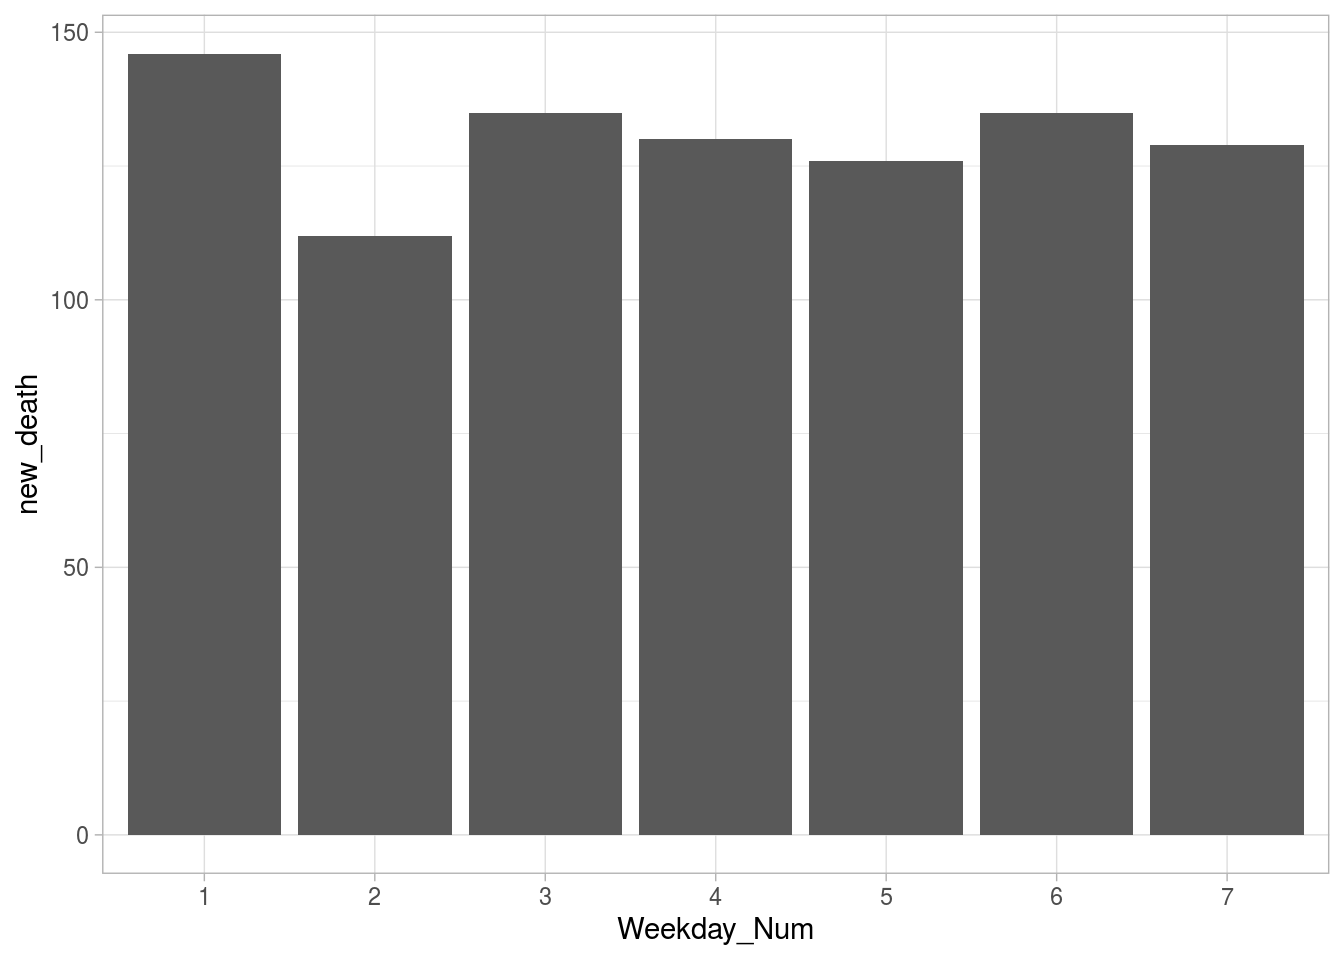
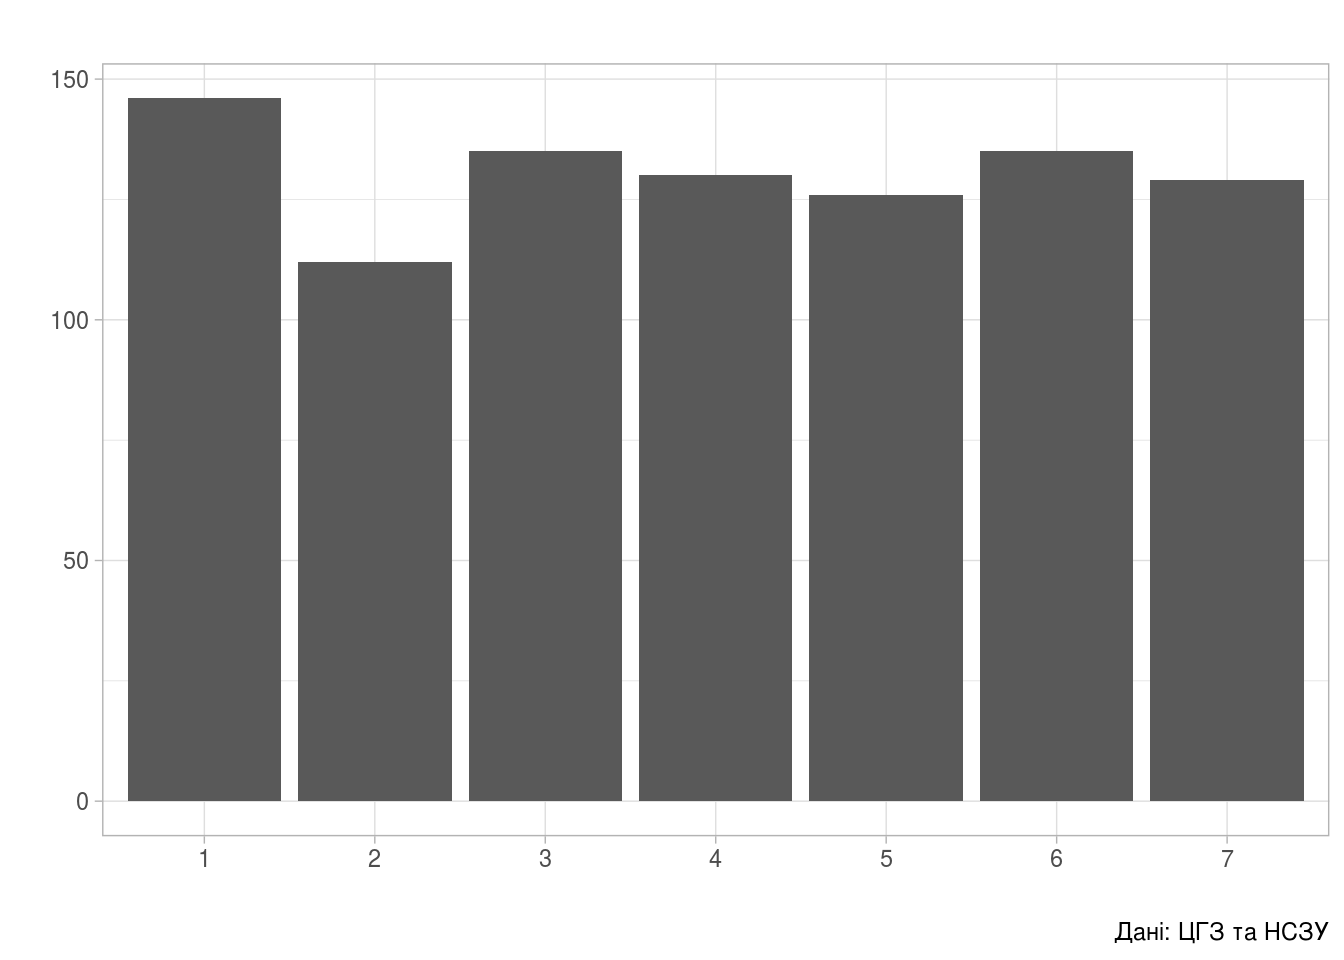
Оновлено та додано нові стовпчикові діаграми

diff --git a/docs/histograms.md b/docs/histograms.md
@@ -6,36 +6,13 @@
 Дні, коли найбільше та найменше реєструють
 ------------------------------------------
 
+Насправді це не зовсім гістограми, а швидше стовпчикові діаграми.
+
 ``` r
 library(tidyverse)
-Sys.setlocale(category="LC_ALL",locale="uk_UA.utf8" )
-```
 
-``` r
 area_dyn <- read_csv('../covid19_by_area_type_hosp_dynamics.csv')
-```
 
-    ## Parsed with column specification:
-    ## cols(
-    ##   zvit_date = col_date(format = ""),
-    ##   registration_area = col_character(),
-    ##   priority_hosp_area = col_character(),
-    ##   edrpou_hosp = col_character(),
-    ##   legal_entity_name_hosp = col_character(),
-    ##   legal_entity_lat = col_number(),
-    ##   legal_entity_lng = col_number(),
-    ##   person_gender = col_character(),
-    ##   person_age_group = col_character(),
-    ##   add_conditions = col_character(),
-    ##   is_medical_worker = col_character(),
-    ##   new_susp = col_double(),
-    ##   new_confirm = col_double(),
-    ##   active_confirm = col_double(),
-    ##   new_death = col_double(),
-    ##   new_recover = col_double()
-    ## )
-
-``` r
 area_dyn <- area_dyn %>%
     mutate(Weekday_Num = factor(strftime(zvit_date, format="%u"))) %>%
     mutate(Weekday_Name = factor(case_when(
@@ -63,11 +40,19 @@ dyn_by_day <- area_dyn %>%
 -------
 
 ``` r
-(ggplot(dyn_by_day, aes(x=Weekday_Num, y=new_susp))
-    + geom_bar(stat="identity"))
+(ggplot(dyn_by_day,
+        aes(fct_reorder(Weekday_Name, Weekday_Num,
+                        .fun=identity, .desc=FALSE),
+            new_susp))
+    + geom_bar(stat="identity")
+    + theme_light()
+    + labs(title="Кількість підозр",
+           x = "",
+           y = "Зареєстровано підозр",
+           caption = "Дані: ЦГЗ та НСЗУ"))
 ```
 
-<img src="fig_histograms_dyn/unnamed-chunk-6-1.png" width="672" />
+<img src="fig_histograms_dyn/dyn_by_day_susp-1.png" width="672" />
 
 Підтверджених випадків
 ----------------------
@@ -78,10 +63,14 @@ dyn_by_day <- area_dyn %>%
                         .fun=identity, .desc=FALSE),
             new_confirm))
     + geom_bar(stat="identity")
-    + theme_light())
+    + theme_light()
+    + labs(title="Кількість підтверджених",
+           x = "",
+           y = "Підтверджено випадків",
+           caption = "Дані: ЦГЗ та НСЗУ"))
 ```
 
-<img src="fig_histograms_dyn/unnamed-chunk-7-1.png" width="672" />
+<img src="fig_histograms_dyn/dyn_by_day_confirm-1.png" width="672" />
 
 Смертей
 -------
@@ -89,9 +78,117 @@ dyn_by_day <- area_dyn %>%
 ``` r
 (ggplot(dyn_by_day, aes(x=Weekday_Num, y=new_death))
     + geom_bar(stat="identity")
-    + theme_light())
+    + theme_light()
+    + labs(title="Летальних випадків",
+           x = "Зареєстровано смертей",
+           y = "",
+           caption = "Дані: ЦГЗ та НСЗУ"))
 ```
 
-<img src="fig_histograms_dyn/unnamed-chunk-8-1.png" width="672" />
+<img src="fig_histograms_dyn/dyn_by_day_death-1.png" width="672" />
+
+Вік та стать хворих
+===================
+
+Вік
+---
+
+``` r
+age_dyn <- area_dyn %>%
+    group_by(person_age_group) %>%
+    summarise(new_death = sum(new_death),
+              new_confirm = sum(new_confirm)) %>%
+    mutate(lethality = new_death / new_confirm)
+
+age_dyn
+```
+
+    ## # A tibble: 6 x 4
+    ##   person_age_group new_death new_confirm lethality
+    ##   <chr>                <dbl>       <dbl>     <dbl>
+    ## 1 0-5                      0         682   0      
+    ## 2 06-17                    0        1718   0      
+    ## 3 18-39                   32        9127   0.00351
+    ## 4 40-64                  376       16017   0.0235 
+    ## 5 65+                    505        4927   0.102  
+    ## 6 Уточнюється              0           5   0
+
+Летальних випадків в залежності від вікової групи хворого:
+
+``` r
+(ggplot(age_dyn, aes(person_age_group, new_death))
+    + geom_col()
+    + theme_light()
+    + labs(title="",
+           x = "",
+           y = "",
+           caption = "Дані: ЦГЗ та НСЗУ"))
+```
+
+<img src="fig_histograms_dyn/age_dyn_death-1.png" width="672" />
+
+Підтверджених хворих в залежності від вікової групи:
+
+``` r
+(ggplot(age_dyn, aes(person_age_group, new_confirm))
+    + geom_col()
+    + theme_light()
+    + labs(title="",
+           x = "",
+           y = "",
+           caption = "Дані: ЦГЗ та НСЗУ"))
+```
+
+<img src="fig_histograms_dyn/age_dyn_confirm-1.png" width="672" />
+
+Поточна летальність в залежності від вікової групи:
+
+``` r
+(ggplot(age_dyn, aes(person_age_group, lethality*100))
+    + geom_col()
+    + theme_light()
+    + labs(title="Поточна летальність",
+           x = "Вікова група",
+           y = "Летальність (відсотків летальних до зареєстрованих)",
+           caption = "Дані: ЦГЗ та НСЗУ"))
+```
+
+<img src="fig_histograms_dyn/age_dyn_lethality-1.png" width="672" />
+
+Стать
+-----
+
+Підтверджених хворих в залежності від статі:
+
+``` r
+gender_dyn <- area_dyn %>%
+    group_by(person_gender) %>%
+    summarise(new_death = sum(new_death),
+              new_confirm = sum(new_confirm))
+```
+
+``` r
+(ggplot(gender_dyn, aes(person_gender, new_death))
+    + geom_col()
+    + theme_light()
+    + labs(title="Кількість летальних випадків",
+           x = "Стать",
+           y = "Летальних випадків",
+           caption = "Дані: ЦГЗ та НСЗУ"))
+```
+
+<img src="fig_histograms_dyn/gender_dyn_death-1.png" width="672" />
+
+``` r
+(ggplot(gender_dyn, aes(person_gender, new_confirm))
+    + geom_col()
+    + theme_light()
+    + labs(title="",
+           x = "",
+           y = "",
+           caption = "Дані: ЦГЗ та НСЗУ"))
+```
+
+<img src="fig_histograms_dyn/gender_dyn_confirm-1.png" width="672" />
 
 [Повернутись на головну](index.html) або [повідомити про помилку]((https://github.com/vityok/covid19_ua/issues))
